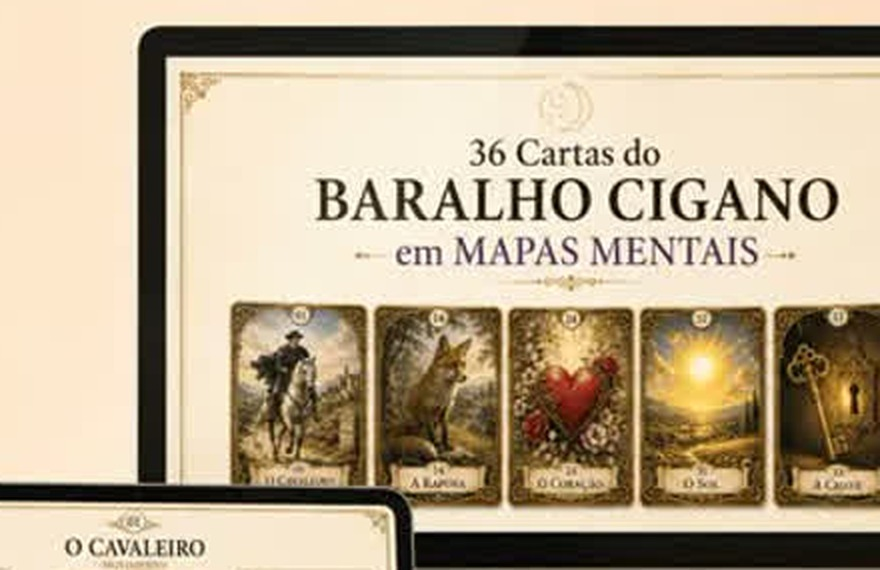
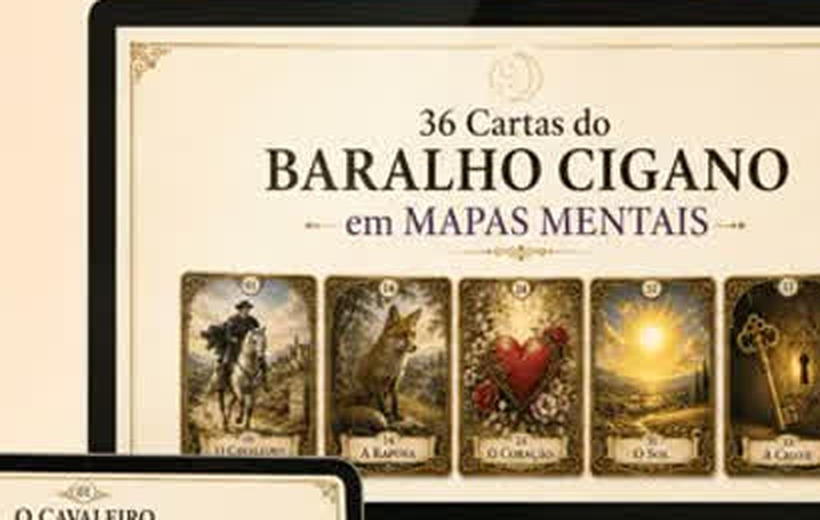
Painel BR: capa Cigano com object-fit:contain e crop mais justo (título completo, sem cortar)

diff --git a/painel/index.html b/painel/index.html
@@ -596,7 +596,7 @@ function renderHomeCards(owned){
       '<span class="home-card-body"><span class="home-card-eyebrow">🔮 Seu produto</span><h3>Mapa do Tarot</h3><p>Módulos, bônus e o App de Treino do Tarô.</p><span class="home-card-cta">Acessar →</span></span>'+
     '</button>'+
     '<button type="button" class="home-card'+(ciganoUnlocked?'':' locked')+'" data-market="cigano">'+
-      '<img src="'+assetUrl('assets/cigano/capa-cigano.jpg')+'" alt="Mapa do Baralho Cigano" style="object-position:center 30%;">'+
+      '<img src="'+assetUrl('assets/cigano/capa-cigano.jpg')+'" alt="Mapa do Baralho Cigano" style="object-fit:contain;background:#f1e2c4;">'+
       (ciganoUnlocked?'':'<span class="home-lock">🔒 Bloqueado</span>')+
       '<span class="home-card-body"><span class="home-card-eyebrow">🃏 '+(ciganoUnlocked?'Seu produto':'Conheça')+'</span><h3>Baralho Cigano</h3><p>'+(ciganoUnlocked?'36 cartas, dicionário de combinações e bônus.':'Método Visual 3C — desbloqueie o plano completo.')+'</p><span class="home-card-cta">'+(ciganoUnlocked?'Acessar →':'Ver oferta →')+'</span></span>'+
     '</button>';
